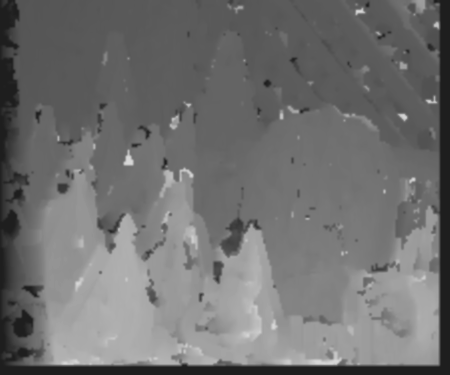
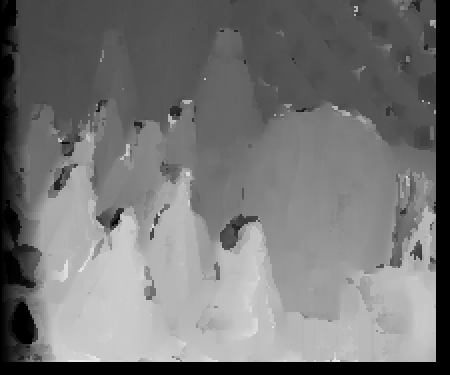
Add scale up method for image

diff --git a/optimize_methods.py b/optimize_methods.py
@@ -182,16 +182,6 @@ def gauss_pyramid_down(image: np.ndarray, levels=1):
     return pyramids[-1]
 
 
-def gauss_pyramid_up(image: np.ndarray, levels=1):
-    """_summary_
-
-    Args:
-        image (np.ndarray): _description_
-        levels (int, optional): _description_. Defaults to 1.
-    """
-    return cv2.pyrUp(image)
-
-
 def gauss_pyramid_rgb(image: np.ndarray, pyramid_method: Callable) -> np.ndarray:
     """Gauss Pyramid for RGB image
 
@@ -213,10 +203,27 @@ def gauss_pyramid_rgb(image: np.ndarray, pyramid_method: Callable) -> np.ndarray
     return pyramid
 
 
+def expand_image(image: np.ndarray) -> np.ndarray:
+    """_summary_
+    Args:
+        img (tuple): the image source
+    Returns:
+        tuple: expanded image
+    """
+
+    n_rows, n_cols, _ = image.shape
+    img_expanded = np.zeros(shape=(n_rows * 2, n_cols * 2, 3), dtype=np.uint8)
+    for row in range(n_rows):
+        img_expanded[row * 2 : row * 2 + 2, ::2] = image[row, :]
+        img_expanded[row * 2 : row * 2 + 2, 1::2] = image[row, :]
+    return img_expanded
+
+
 if __name__ == "__main__":
     img = np.asarray(Image.open("cones/im2.png"))
-    pyr = gauss_pyramid_rgb(img, gauss_pyramid_down)
-    plt.imsave("gauss_pyr.png", pyr)
-    pyr = gauss_pyramid_up(img)
+    # pyr = gauss_pyramid_rgb(img, gauss_pyramid_down)
+    # plt.imsave("gauss_pyr.png", pyr)
+    # pyr = gauss_pyramid_up(img)
+    pyr = expand_image(img)
     plt.imsave("gauss_pyr_up.png", pyr)
     # Image.fromarray(pyr).save("gauss_pyr.png")

diff --git a/main.py b/main.py
@@ -12,8 +12,8 @@ from PIL import Image
 from tqdm import tqdm
 from optimize_methods import (
     almost_equal,
+    expand_image,
     gauss_pyramid_down,
-    gauss_pyramid_up,
     sub_pixel_estimation,
     gauss_pyramid_rgb,
 )
@@ -27,7 +27,7 @@ from optimize_methods import (
 # i_d = filters.convolve(i_d, h)
 
 DISPARITY_RANGE = 32  # In pixels
-BLOCK_SIZE = 5
+BLOCK_SIZE = 7
 
 
 def sum_of_abs_diff(pixel_vals_1: np.ndarray, pixel_vals_2: np.ndarray) -> float:
@@ -242,7 +242,8 @@ def disparity_block_matching_rgb(
 if __name__ == "__main__":
     # depth = disparity_block_matching("photo/cones/im2.png", "photo/cones/im6.png")
     depth = disparity_block_matching_rgb("photo/cones/im2.png", "photo/cones/im6.png")
-    depth = gauss_pyramid_up(depth)
+    # depth = gauss_pyramid_up(depth)
+    depth = expand_image(depth)
     plt.imsave("photo/cones/depth.png", depth)
     depth = np.asarray(Image.open("photo/cones/depth.png").convert("L"))
     depth = depth[:-1, :]
